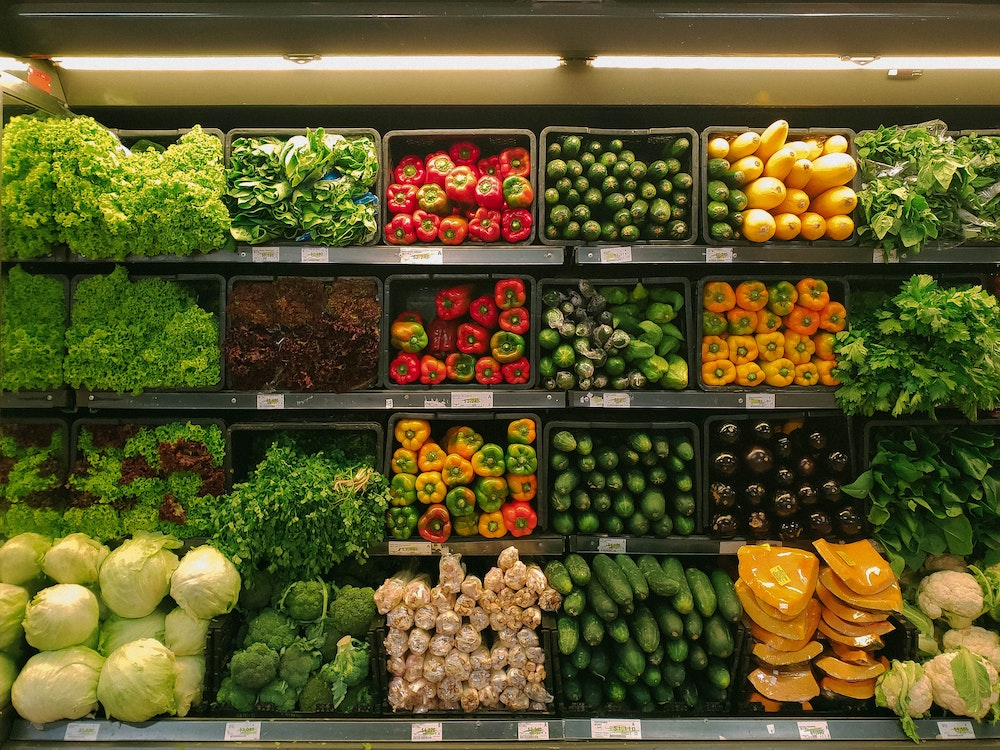
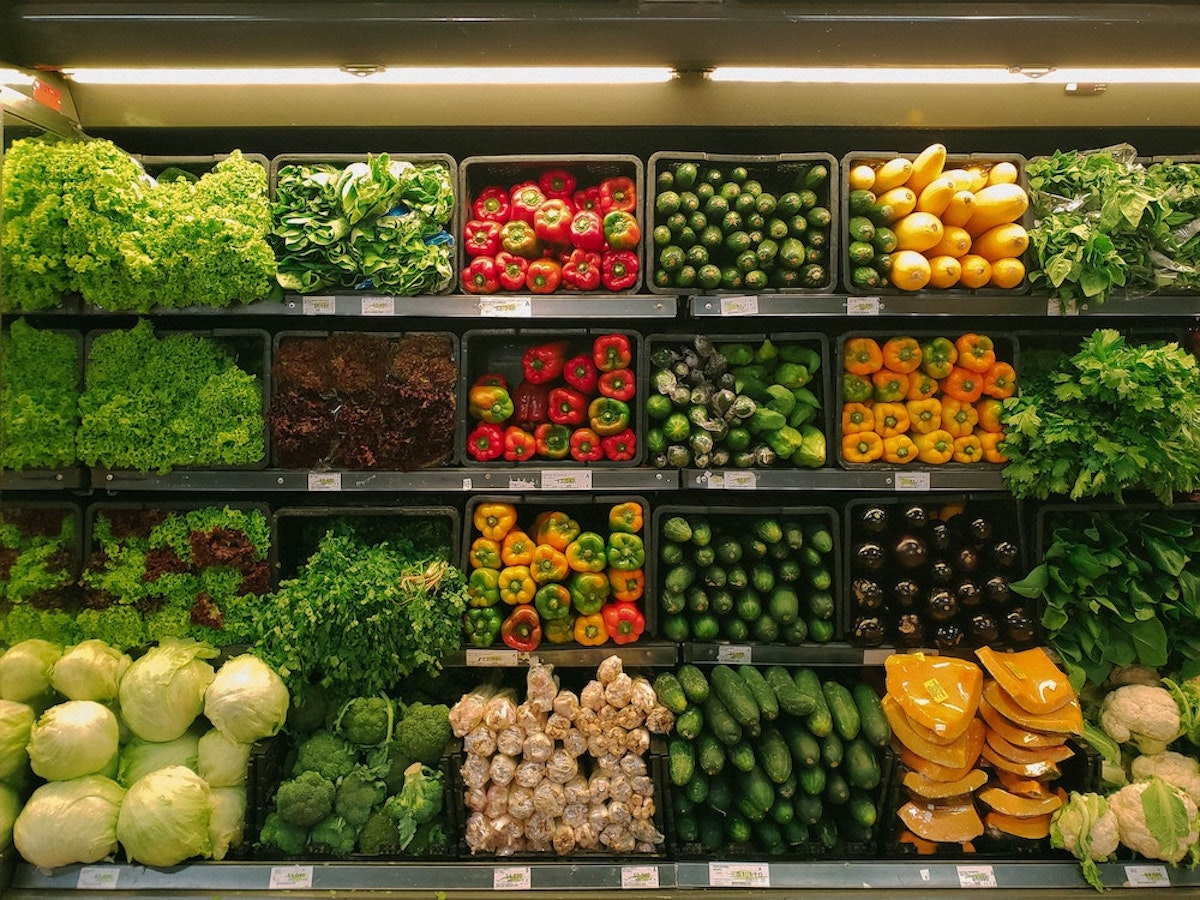
Change blur

diff --git a/public/styles.css b/public/styles.css
@@ -24,8 +24,8 @@
 }
 
 img.blur {
-	-webkit-filter: blur(4px);
-	filter: blur(4px);
-  filter:progid:DXImageTransform.Microsoft.Blur(PixelRadius='4');
+	-webkit-filter: blur(2px);
+	filter: blur(2px);
+  filter:progid:DXImageTransform.Microsoft.Blur(PixelRadius='2');
 
 }
